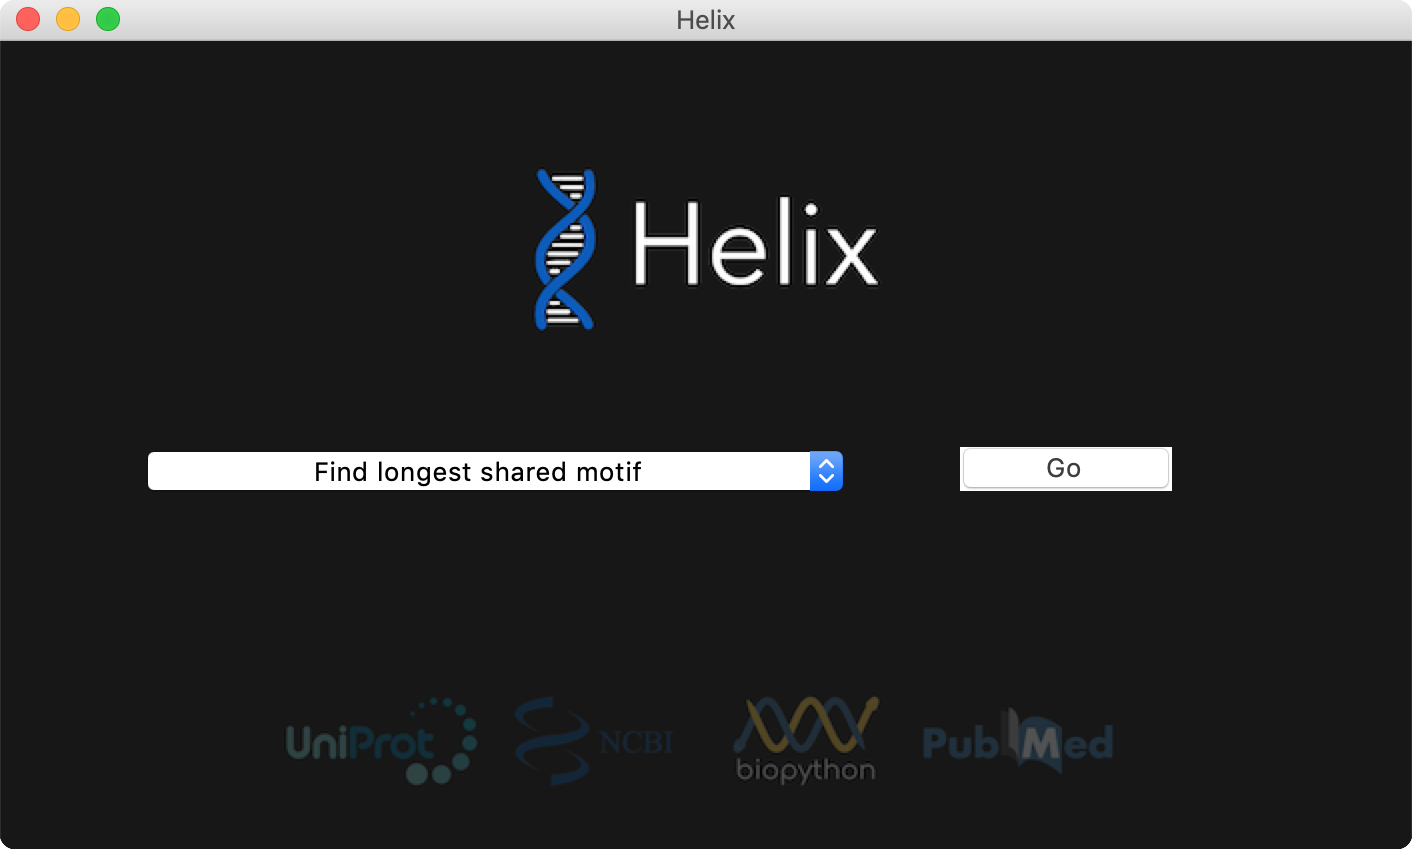
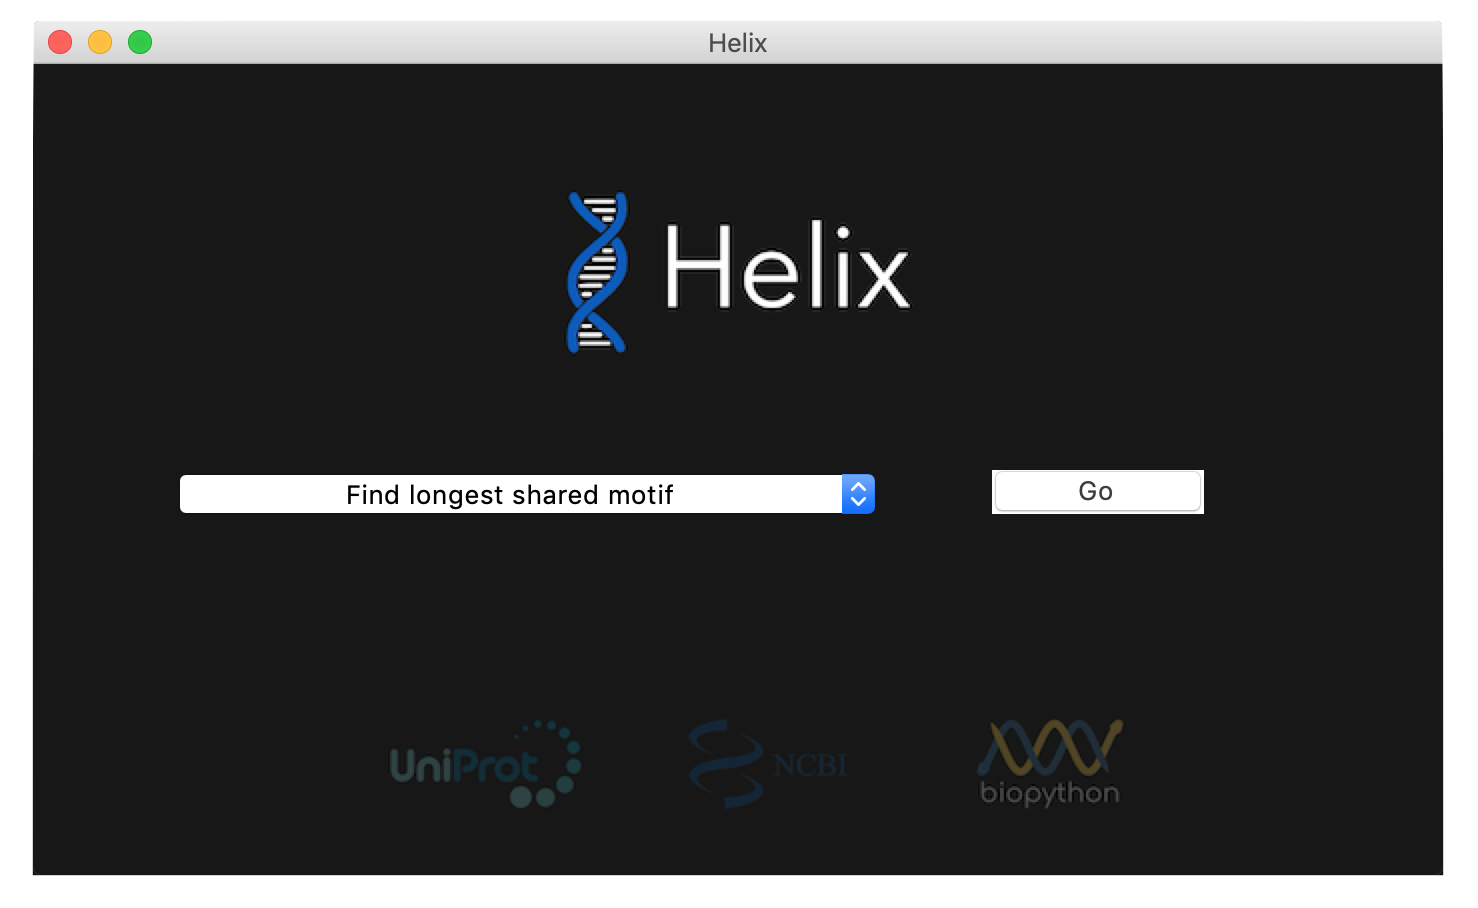
Consensus and weblogo functionalities added!

diff --git a/helix.py b/helix.py
@@ -8,7 +8,7 @@ import ssl
 ssl._create_default_https_context = ssl._create_unverified_context
 from urllib.request import urlopen
 from Bio.Seq import Seq
-from Bio import SeqIO
+from Bio import SeqIO,motifs
 import tkinter as tk
 from tkinter import ttk
 
@@ -71,16 +71,11 @@ def findLongestMotif(dnaSeqs):
 	allLongest = []
 	longest = ''
 	totalIterations = len(smallestSeq)
-	#progressBar.config(mode='determinate',maximum=totalIterations)
 
 	# Iterate over all posible combinations and find the longest shared motif
 	for startIndex in range(len(smallestSeq)+1):
 		endIndex = len(smallestSeq)
 		currentSubSeq = smallestSeq[startIndex:endIndex]
-
-		#print(str(startIndex/totalIterations*100)[:4],'%')
-		#progressBar['value'] = startIndex
-		#progressBar.update()
 
 		while len(currentSubSeq) >= len(longest):
 			if isGlobalSubfragment(currentSubSeq,dnaSeqs):
@@ -93,6 +88,61 @@ def findLongestMotif(dnaSeqs):
 			endIndex -= 1
 			currentSubSeq = smallestSeq[startIndex:endIndex]
 	return allLongest
+
+
+# param: a list of dna aminoacid sequences
+# return: a list of dna base pair sequences
+def aminoAcidToBase(seqs):
+	translateDic = {'F':'TTT','L':'CTT','I':'ATT','V':'GTT','F':'TTC','L':'CTC','I':'ATC','V':'GTC','L':'TTA','L':'CTA','I':'ATA','V':'GTA','L':'TTG','L':'CTG','M':'ATG','V':'GTG','S':'TCT','P':'CCT','T':'ACT','A':'GCT','S':'TCC','P':'CCC','T':'ACC','A':'GCC','S':'TCA','P':'CCA','T':'ACA','A':'GCA','S':'TCG','P':'CCG','T':'ACG','A':'GCG','Y':'TAT','H':'CAT','N':'AAT','D':'GAT','Y':'TAC','H':'CAC','N':'AAC','D':'GAC','Stop':'TAA','Q':'CAA','K':'AAA','E':'GAA','Stop':'TAG','Q':'CAG','K':'AAG','E':'GAG','C':'TGT','R':'CGT','S':'AGT','G':'GGT','C':'TGC','R':'CGC','S':'AGC','G':'GGC','Stop':'TGA','R':'CGA','R':'AGA','G':'GGA','W':'TGG','R':'CGG','R':'AGG','G':'GGG'}
+	translated = []
+
+	for seq in seqs:
+		translatedSeq = ""
+		for aa in seq:
+			translatedSeq += translateDic[aa]
+		translated.append(translatedSeq)
+
+	return translated
+
+
+# param: a list of dna sequences
+# return: a list of dna sequences all with the same lenght
+def normalizeSeqs(seqs):
+	minLength = min(len(seq) for seq in seqs)
+	normalized = []
+
+	for seq in seqs:
+		normalized.append(Seq(seq[:minLength]))
+
+	return normalized
+
+
+def showConfirmation(text,confirmed):
+
+	# Set up window
+	confWindow = tk.Tk()
+	confWindow.title("Helix")
+
+	canvas2 = tk.Canvas(confWindow,height=125,width=400,bg=appBgColor)
+	canvas2.pack()
+	frame2 = tk.Frame(confWindow,bg=appBgColor)
+	frame2.place(relx=0,rely=0,relwidth=1,relheight=1)
+
+	spacer1 = tk.Label(frame2,text = ' ',font='Arial 30',bg=appBgColor)
+	spacer1.pack(side='top')
+
+	confLabel = tk.Label(frame2,text=text,bg=appBgColor,font='Arial 15 bold')
+	if confirmed:
+		confLabel['fg'] = '#27ae60'
+	else:
+		confLabel['fg'] = '#e74c3c'
+	confLabel.pack(side='top')
+
+	spacer2 = tk.Label(frame2,text = ' ',font='Arial 15',bg=appBgColor)
+	spacer2.pack(side='top')
+
+	closeButton = tk.Button(frame2,text='Ok',fg='#575757',width=10,command=lambda: confWindow.destroy())
+	closeButton.pack(side='top')
 
 
 # Home Screen
@@ -116,13 +166,11 @@ def mainApp(reload):
 	helixLogoLabel.pack(side='top')
 
 	uniProtLogoLabel = tk.Label(frame,image=unitProtLogo,pady=0, padx=0, borderwidth=0, highlightthickness=0)
-	uniProtLogoLabel.place(relx=0.2,rely=0.8)
+	uniProtLogoLabel.place(relx=0.25,rely=0.8)
 	ncbiLogoLabel = tk.Label(frame,image=ncbiLogo,pady=0, padx=0, borderwidth=0, highlightthickness=0)
-	ncbiLogoLabel.place(relx=0.35,rely=0.8)
+	ncbiLogoLabel.place(relx=0.45,rely=0.8)
 	bioPythonLogoLabel = tk.Label(frame,image=bioPythonLogo,pady=0, padx=0, borderwidth=0, highlightthickness=0)
-	bioPythonLogoLabel.place(relx=0.5,rely=0.8)
-	pubmedLogoLabel = tk.Label(frame,image=pubmedLogo,pady=0, padx=0, borderwidth=0, highlightthickness=0)
-	pubmedLogoLabel.place(relx=0.65,rely=0.8)
+	bioPythonLogoLabel.place(relx=0.65,rely=0.8)
 
 	options = ['Find longest shared motif','Get consensus','Get Weblogo','Find motif locations','Get sequence']
 	selectedOption = tk.StringVar(frame)
@@ -170,16 +218,12 @@ def getLSMPage():
 
 	spacer2 = tk.Label(frame,text='',font='Arial 20',bg=appBgColor)
 	spacer2.pack(side='top')
-	searchButton = tk.Button(frame,text='  Search  ',fg=lightLetterColor,command=lambda: search(entry.get()))
+	searchButton = tk.Button(frame,text='  Find  ',fg=lightLetterColor,command=lambda: search(entry.get()))
 	searchButton.config(bg=appBgColor)
 	searchButton.pack(side='top')
 
 	spacer3 = tk.Label(frame,text='',font='Arial 25',bg=appBgColor)
 	spacer3.pack(side='top')
-
-	#global progressBar
-	#progressBar = ttk.Progressbar(frame, length=450)
-	#progressBar.pack(side='top')
 
 	global resultListbox
 	resultListbox = tk.Listbox(frame,background='#141414',fg='white',selectbackground='#2f6492',width=50,height=8)
@@ -232,14 +276,64 @@ def getConsensusPage():
 	frame = tk.Frame(root,bg=appBgColor)
 	frame.place(relx=0,rely=0,relwidth=1,relheight=1)
 
-	spacerTop = tk.Label(frame,text='',font='Arial 40',bg=appBgColor)
-	spacerTop.pack(side='top')
-	helixLogoLabel = tk.Label(frame,image=helixLogo,pady=0, padx=0, borderwidth=0, highlightthickness=0)
-	helixLogoLabel.pack(side='top')
+	spacer1 = tk.Label(frame,text='',font='Arial 40',bg=appBgColor)
+	spacer1.pack(side='top')
+	instruction = tk.Label(frame,text = 'Enter protein IDs or filename',fg='white',bg=appBgColor)
+	instruction.pack(side='top')
+	entry = tk.Entry(frame,fg='white',bg='#141414',width=50)
+	entry.pack(side='top')
+
+	spacer2 = tk.Label(frame,text='',font='Arial 20',bg=appBgColor)
+	spacer2.pack(side='top')
+	searchButton = tk.Button(frame,text='  Get Consensus  ',fg=lightLetterColor,command=lambda: getConsensus(entry.get()))
+	searchButton.config(bg=appBgColor)
+	searchButton.pack(side='top')
+
+	spacer3 = tk.Label(frame,text='',font='Arial 25',bg=appBgColor)
+	spacer3.pack(side='top')
+
+	global resultListbox
+	resultListbox = tk.Listbox(frame,background='#141414',fg='white',selectbackground='#2f6492',width=50,height=8)
+	resultListbox.pack(side='top')
 
 	returnButton = tk.Button(frame,text='  return  ',fg=lightLetterColor,command=lambda: mainApp(reload=True))
 	returnButton.config(bg=appBgColor)
 	returnButton.pack(side='bottom')
+
+def getConsensus(entry):
+	if entry != '':
+		try:
+			if entry[-4:] == '.txt':
+				allSequenceRecords = SeqIO.parse(entry,'fasta')
+				allSeq = []
+				for seq in allSequenceRecords:
+					allSeq.append(str(seq.seq))
+				allSeq = normalizeSeqs(allSeq)
+			else:
+				proteinIds = entry.split(',')
+				allSeq = []
+				for id in proteinIds:
+					allSeq.append(getUniProtFasta(id))
+				allSeq = aminoAcidToBase(allSeq)
+				allSeq = normalizeSeqs(allSeq)
+
+			# Run process
+			startTime = time.time()
+			
+			# Find consensus
+			motifData = motifs.create(allSeq)
+			consensus =  str(motifData.consensus)
+			degenerate_consensus = str(motifData.degenerate_consensus)
+			
+			deltaTime = time.time() - startTime
+
+			resultListbox.insert(0,'')
+			resultListbox.insert(0,'Degenerate Consensus: ' + degenerate_consensus)
+			resultListbox.insert(0,'Consensus: ' + consensus)
+			resultListbox.insert(0,'> ' + entry + ' T= ' + str(deltaTime)[:5] + 's')
+		except:
+			resultListbox.insert(0,'')
+			resultListbox.insert(0,'> No result: bad input')
 
 
 def getWebLogoPage():
@@ -254,14 +348,67 @@ def getWebLogoPage():
 	frame = tk.Frame(root,bg=appBgColor)
 	frame.place(relx=0,rely=0,relwidth=1,relheight=1)
 
-	spacerTop = tk.Label(frame,text='',font='Arial 40',bg=appBgColor)
-	spacerTop.pack(side='top')
-	helixLogoLabel = tk.Label(frame,image=helixLogo,pady=0, padx=0, borderwidth=0, highlightthickness=0)
-	helixLogoLabel.pack(side='top')
+	spacer1 = tk.Label(frame,text='',font='Arial 40',bg=appBgColor)
+	spacer1.pack(side='top')
+	instruction1 = tk.Label(frame,text = 'Enter protein IDs or filename',fg='white',bg=appBgColor)
+	instruction1.pack(side='top')
+	entry1 = tk.Entry(frame,fg='white',bg='#141414',width=50)
+	entry1.pack(side='top')
+
+	spacer2 = tk.Label(frame,text='',font='Arial 40',bg=appBgColor)
+	spacer2.pack(side='top')
+	instruction2 = tk.Label(frame,text = 'Save to',fg='white',bg=appBgColor)
+	instruction2.pack(side='top')
+	entry2 = tk.Entry(frame,fg='white',bg='#141414',width=50)
+	entry2.pack(side='top')
+
+	spacer3 = tk.Label(frame,text='',font='Arial 20',bg=appBgColor)
+	spacer3.pack(side='top')
+	getButton = tk.Button(frame,text='  Generate Weblogo  ',fg=lightLetterColor,command=lambda: getWebLogo(entry1.get(),entry2.get()))
+	getButton.config(bg=appBgColor)
+	getButton.pack(side='top')
 
 	returnButton = tk.Button(frame,text='  return  ',fg=lightLetterColor,command=lambda: mainApp(reload=True))
 	returnButton.config(bg=appBgColor)
 	returnButton.pack(side='bottom')
+
+def getWebLogo(entry,saveName):
+	if entry != '':
+
+		if saveName != '':
+			if saveName[-4:] != '.png':
+				saveName += '.png'
+		else:
+			saveName = entry[:-4] + '-weblogo.png'
+
+		try:
+			if entry[-4:] == '.txt':
+				allSequenceRecords = SeqIO.parse(entry,'fasta')
+				allSeq = []
+				for seq in allSequenceRecords:
+					allSeq.append(str(seq.seq))
+				allSeq = normalizeSeqs(allSeq)
+			else:
+				proteinIds = entry.split(',')
+				allSeq = []
+				for id in proteinIds:
+					allSeq.append(getUniProtFasta(id))
+				allSeq = aminoAcidToBase(allSeq)
+				allSeq = normalizeSeqs(allSeq)
+
+			# Run process
+			startTime = time.time()
+			
+			# Create motif data
+			motifData = motifs.create(allSeq)
+			motifData.weblogo(saveName)
+
+			deltaTime = time.time() - startTime
+
+			showConfirmation('Weblogo saved! \n(' + saveName + ')',True)
+
+		except:
+			showConfirmation('Sorry, error creating Weblogo.',False)
 
 
 def getMLocPage():
@@ -321,7 +468,6 @@ root.configure(background='white')
 unitProtLogo = tk.PhotoImage(file='assets/logo-uniprot.png')
 ncbiLogo = tk.PhotoImage(file='assets/logo-ncbi.png')
 bioPythonLogo = tk.PhotoImage(file='assets/logo-biopython.png')
-pubmedLogo = tk.PhotoImage(file='assets/logo-pubmed.png')
 helixLogo = tk.PhotoImage(file='assets/logo-helix.png')
 appBgColor = '#181818'
 lightLetterColor = '#3d3d3d'
